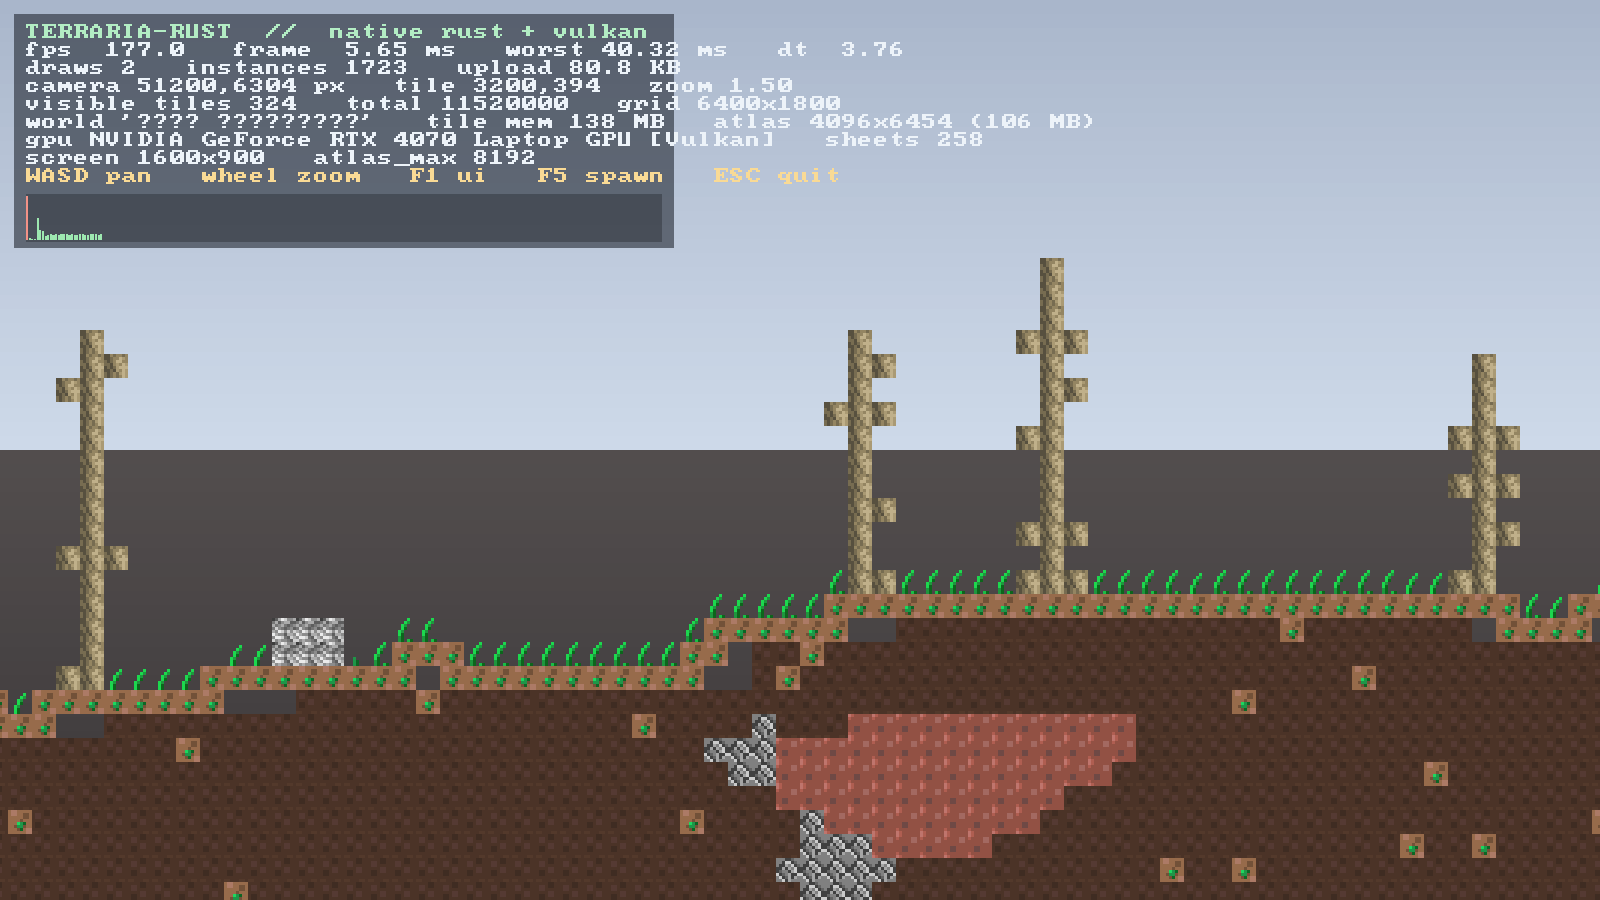
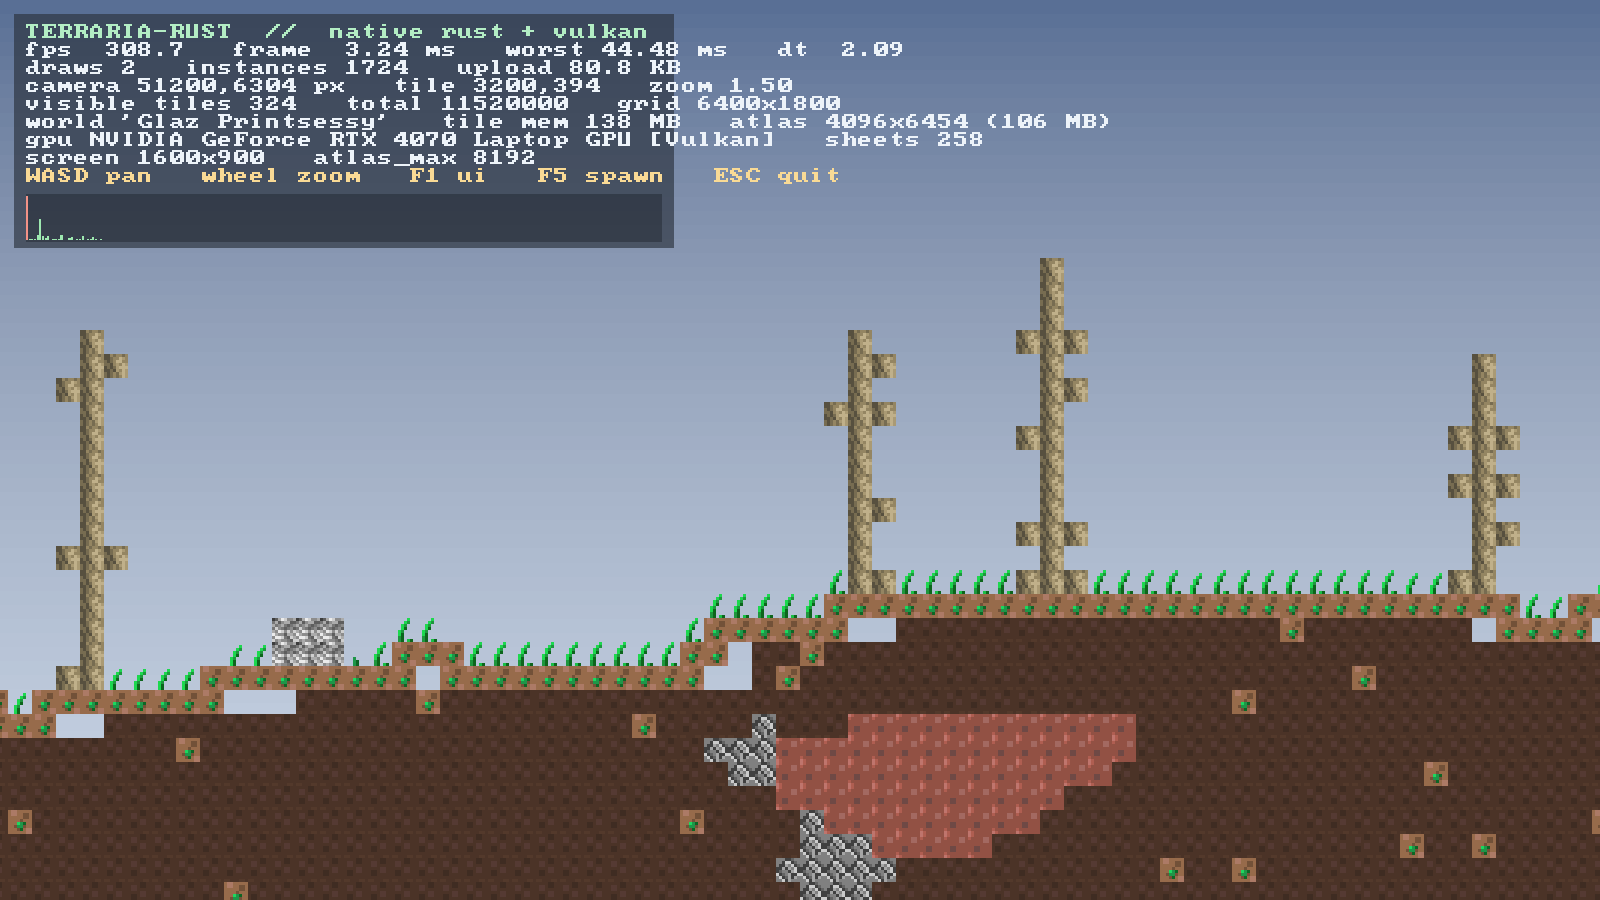
Fix wall sheet layout (36px cells), add sky gradient and depth fade, docs

diff --git a/crates/tr-app/src/main.rs b/crates/tr-app/src/main.rs
@@ -524,6 +524,29 @@ fn lerp3(a: [f32; 3], b: [f32; 3], t: f32) -> [f32; 4] {
     ]
 }
 
+/// The debug font is ASCII-only; transliterate Cyrillic names so they stay readable.
+fn display_name(name: &str) -> String {
+    const CYRILLIC: &str = "АБВГДЕЁЖЗИЙКЛМНОПРСТУФХЦЧШЩЪЫЬЭЮЯабвгдеёжзийклмнопрстуфхцчшщъыьэюя";
+    const LATIN: &[&str] = &[
+        "A", "B", "V", "G", "D", "E", "Yo", "Zh", "Z", "I", "Y", "K", "L", "M", "N", "O",
+        "P", "R", "S", "T", "U", "F", "Kh", "Ts", "Ch", "Sh", "Shch", "", "Y", "", "E", "Yu",
+        "Ya", "a", "b", "v", "g", "d", "e", "yo", "zh", "z", "i", "y", "k", "l", "m", "n",
+        "o", "p", "r", "s", "t", "u", "f", "kh", "ts", "ch", "sh", "shch", "", "y", "", "e",
+        "yu", "ya",
+    ];
+    let mut out = String::with_capacity(name.len());
+    for ch in name.chars() {
+        if let Some(idx) = CYRILLIC.chars().position(|c| c == ch) {
+            out.push_str(LATIN[idx]);
+        } else if ch.is_ascii() {
+            out.push(ch);
+        } else {
+            out.push('?');
+        }
+    }
+    out
+}
+
 fn draw_sky(r: &mut SpriteRenderer, camera: Vec2, zoom: f32, screen: Vec2, horizon_px: f32) {
     // Screen-space gradient: sky at the surface, fading to cave darkness with depth.
     // Replaced later by the real sky/parallax/background layers.
@@ -672,7 +695,7 @@ fn draw_debug(
     lines.push((
         format!(
             "world '{}'   tile mem {:.0} MB   atlas {}x{} ({:.0} MB)",
-            world.name.chars().map(|c| if c.is_ascii() { c } else { '?' }).collect::<String>(),
+            display_name(&world.name),
             world.memory_bytes() as f32 / 1e6,
             atlas_stats.0,
             atlas_stats.1,
